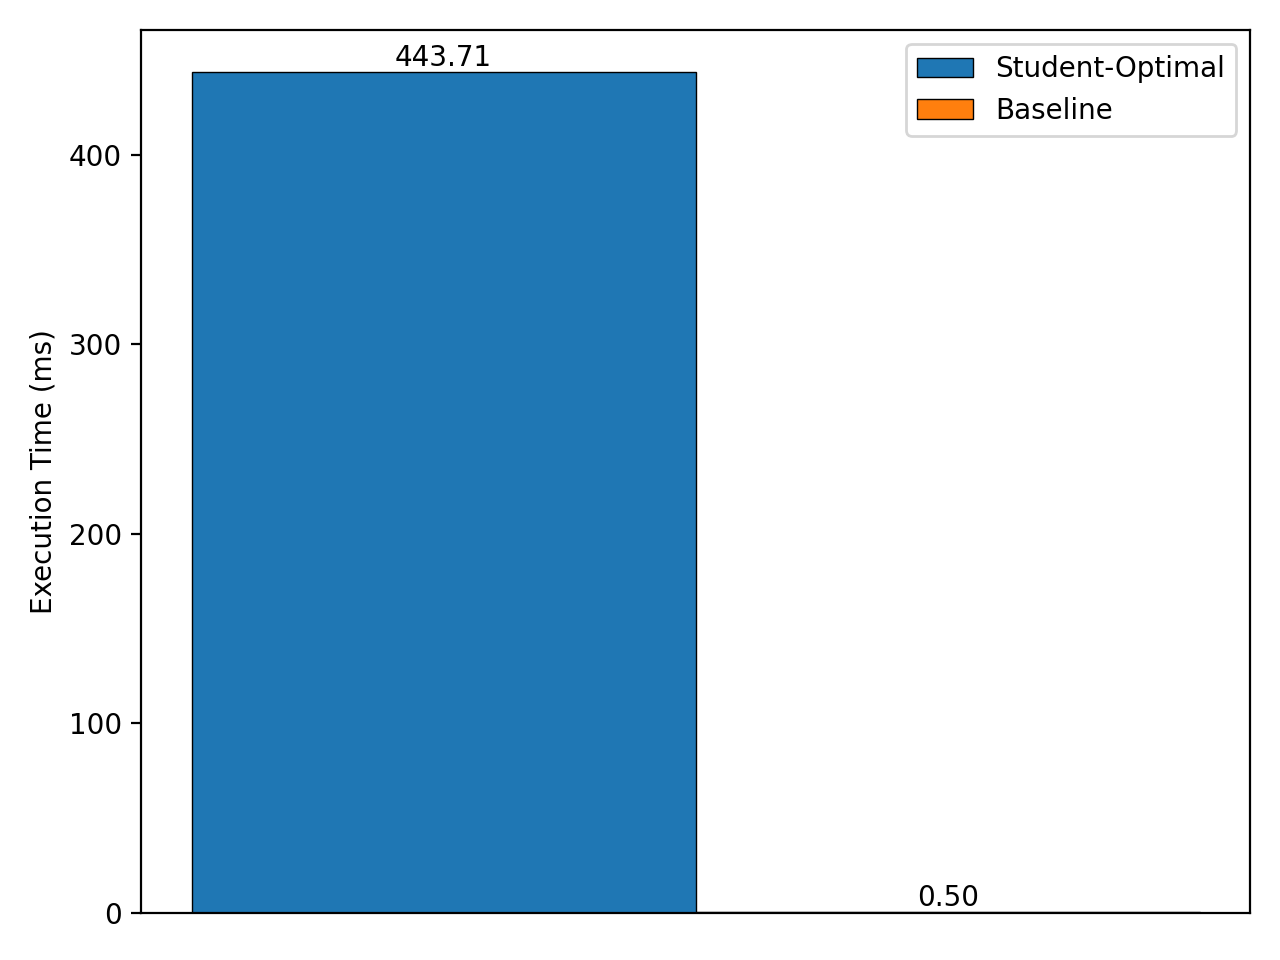
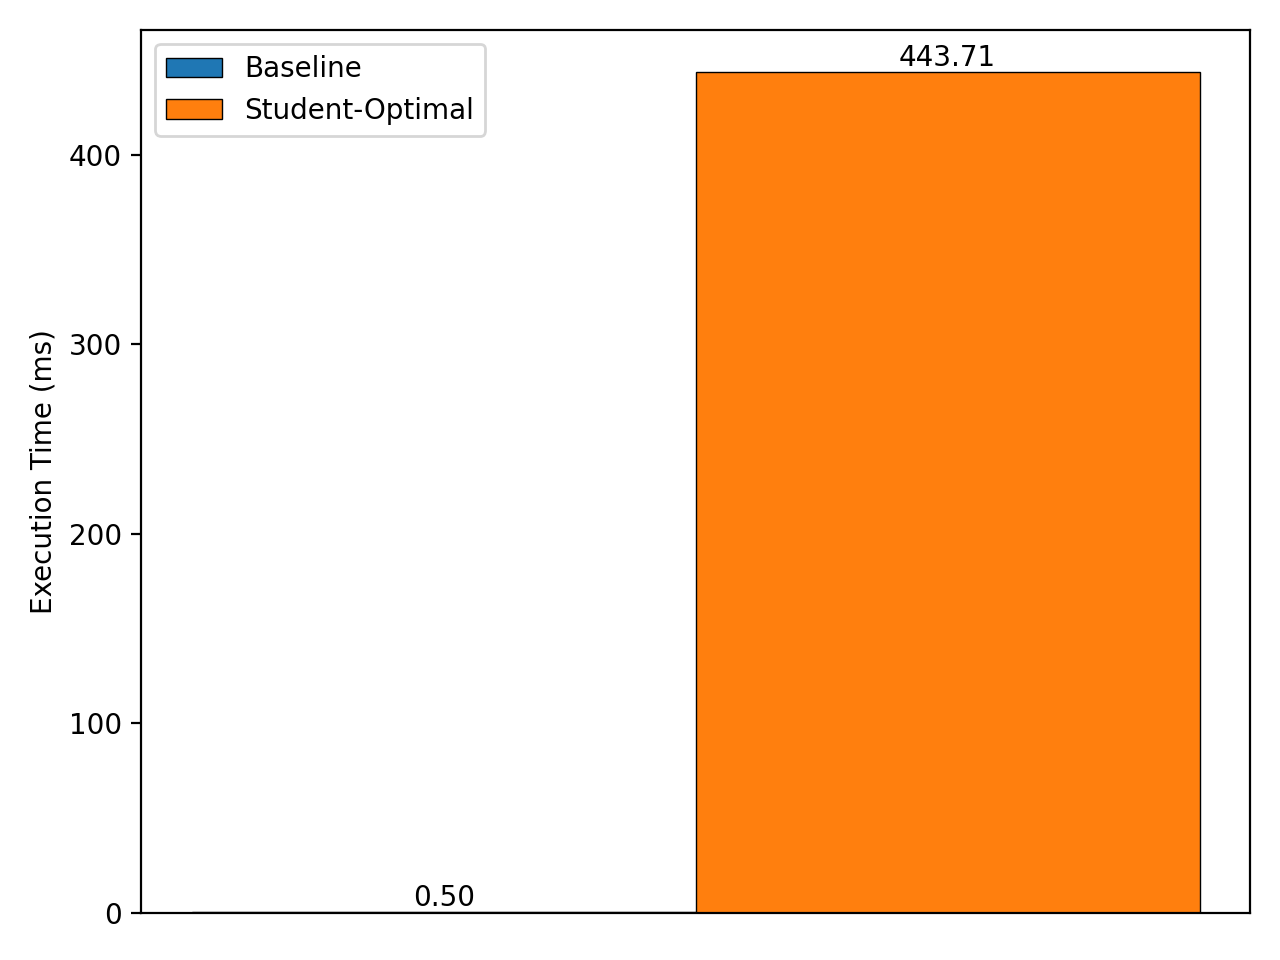
add scripts

diff --git a/scripts/plot.py b/scripts/plot.py
@@ -1,0 +1,135 @@
+#!/usr/bin/env python3
+import argparse
+import csv
+import matplotlib.pyplot as plt
+import numpy as np
+import os
+
+LABEL_TIE_BREAKING = 'Baseline'
+LABEL_STUDENT_OPTIMAL = 'Student-Optimal'
+
+def read(path):
+    if not os.path.isfile(path):
+        sys.exit('ERROR: file not exist: ' + path)
+    with open(path, 'r') as csvfile:
+        reader = csv.DictReader(csvfile)
+        return list(reader)
+
+def calculate_mean(data):
+    sum_utility = {}
+    sum_execution_time = 0.0
+    for row in data:
+        for k, v in row.items():
+            if k.startswith('pref_'):
+                if k in sum_utility:
+                    sum_utility[k] += float(v)
+                else:
+                    sum_utility[k] = float(v)
+            elif k == 'execution_time':
+                sum_execution_time += float(v)
+
+    mean_utility = {k: v / len(data) for k, v in sum_utility.items()}
+    mean_execution_time = sum_execution_time / len(data)
+    return mean_utility, mean_execution_time
+
+def plot(x, data, path, xlabel=None, ylabel=None, precision='{:.1f}'):
+    edge_color = 'black'
+    edge_width = 0.5
+    bar_width = 0.9 / len(data)
+    x_axis = np.arange(len(x))
+
+    plt.subplots()
+    for index, (label, values) in enumerate(data):
+        z = len(values)
+        rects = plt.bar(x_axis + index * bar_width,
+                values,
+                bar_width,
+                label=label,
+                edgecolor=edge_color,
+                linewidth=edge_width,
+                )
+        plt.bar_label(rects,
+                fmt=precision,
+                )
+
+    plt.xticks(x_axis + bar_width / len(data), x)
+    if xlabel == None:
+        plt.tick_params(axis='x',
+                which='both',
+                bottom=False,
+                top=False,
+                labelbottom=False,
+                )
+    else:
+        plt.xlabel(xlabel)
+    if ylabel != None:
+        plt.ylabel(ylabel)
+    plt.legend()
+    plt.tight_layout()
+    plt.savefig(path, dpi=200)
+    # plt.show()
+    plt.close()
+
+if __name__ == '__main__':
+    parser = argparse.ArgumentParser(description='Plot figures')
+    parser.add_argument('student_count', type=int, help='ath for the students')
+    parser.add_argument('school_count', type=int, help='path for the schools')
+    parser.add_argument('input_path', help='loading allocation result from the path')
+    parser.add_argument('output_path', help='saving figures to the path')
+    parser.add_argument('--console', action=argparse.BooleanOptionalAction, help='print data to the stdout without saving figures')
+    args = parser.parse_args()
+
+    output_filepath = os.path.join(args.output_path,
+            'student' + str(args.student_count) + '_school' + str(args.school_count))
+    if not os.path.exists(output_filepath):
+        os.makedirs(output_filepath)
+
+    summary_filepath = os.path.join(args.input_path,
+            'student' + str(args.student_count) + '_school' + str(args.school_count),
+            'student' + str(args.student_count) + '_school' + str(args.school_count) + '_summary.csv')
+    summary = read(summary_filepath)
+    utility_optimal, execution_time_optimal = calculate_mean([row for row in summary if row['algorithm'] == 'student_optimal'])
+    utility_tb, execution_time_tb = calculate_mean([row for row in summary if row['algorithm'] == 'tie_breaking'])
+    time_multiplier, time_unit = (1000, 'ms') if execution_time_optimal < 1.0 else (1, 's')
+    print(utility_optimal, execution_time_optimal * time_multiplier, time_unit)
+    print(utility_tb, execution_time_tb * time_multiplier, time_unit)
+
+    if args.console == False or args.console == None:
+        figure_utility_filepath = os.path.join(output_filepath,
+                'student' + str(args.student_count) + '_school' + str(args.school_count) + '_utility.png')
+        z = len(utility_tb)
+        plot(['Rank ' + str(pref + 1) for pref in range(z)],
+                [
+                    (
+                        LABEL_TIE_BREAKING,
+                        [utility_tb['pref_' + str(pref)] for pref in range(z)],
+                        ),
+                    (
+                        LABEL_STUDENT_OPTIMAL,
+                        [utility_optimal['pref_' + str(pref)] for pref in range(z)],
+                        ),
+                    ],
+                figure_utility_filepath,
+                xlabel='Preference Rank of Allocated School',
+                ylabel='Number of Students',
+                precision='{:.1f}',
+                )
+        figure_execution_time_filepath = os.path.join(output_filepath,
+                'student' + str(args.student_count) + '_school' + str(args.school_count) + '_execution_time.png')
+        plot(['Execution Time'],
+                [
+                    (
+                        LABEL_TIE_BREAKING,
+                        [execution_time_tb * time_multiplier],
+                        ),
+                    (
+                        LABEL_STUDENT_OPTIMAL,
+                        [execution_time_optimal * time_multiplier],
+                        ),
+                    ],
+                figure_execution_time_filepath,
+                xlabel=None,
+                ylabel='Execution Time (' + time_unit + ')',
+                precision='{:.2f}',
+                )
+

diff --git a/scripts/generate.py b/scripts/generate.py
@@ -1,0 +1,66 @@
+#!/usr/bin/env python3
+import argparse
+import csv
+import os
+import sys
+import random
+
+def generate_students(student_count, school_count):
+    students = []
+    school_ids = list(range(school_count))
+    for student_id in range(student_count):
+        random.shuffle(school_ids)
+        row = {'pref_' + str(pref): school_id for pref, school_id in enumerate(school_ids)}
+        row['student_id'] = student_id
+        students += [row]
+    return students
+
+def generate_schools(student_count, school_count):
+    schools = []
+    for school_id in range(school_count):
+        capacity = student_count // school_count
+        row = {
+                'school_id': school_id,
+                'capacity': capacity,
+                }
+        schools += [row]
+    return schools
+
+def save(path, fieldnames, data):
+    with open(path, 'w') as csvfile:
+        writer = csv.DictWriter(csvfile, fieldnames)
+        writer.writeheader()
+        writer.writerows(data)
+
+if __name__ == '__main__':
+    parser = argparse.ArgumentParser(description='Generate dataset')
+    parser.add_argument('student_count', type=int, help='the number of students')
+    parser.add_argument('school_count', type=int, help='the number of schools. NOTE: student_count should be devided by school_count')
+    parser.add_argument('path', help='saving generated dataset to the path')
+    parser.add_argument('seed', nargs='+', type=int, help='random seed for shuffle student\'s preference list')
+    args = parser.parse_args()
+
+    dataset_filepath = os.path.join(args.path,
+            'student' + str(args.student_count) + '_school' + str(args.school_count))
+    if not os.path.exists(dataset_filepath):
+        os.makedirs(dataset_filepath)
+
+    # students
+    if args.seed != None:
+        for seed in args.seed:
+            random.seed(seed)
+            students = generate_students(args.student_count, args.school_count)
+            students_filename = os.path.join(dataset_filepath,
+                    'student' + str(args.student_count) + '_school' + str(args.school_count) + '_students_seed' + str(seed) + '.csv')
+            save(students_filename,
+                    ['student_id'] + ['pref_' + str(pref) for pref in range(args.school_count)],
+                    students)
+
+    # schools
+    schools = generate_schools(args.student_count, args.school_count)
+    schools_filepath = os.path.join(dataset_filepath,
+            'student' + str(args.student_count) + '_school' + str(args.school_count) + '_schools.csv')
+    save(schools_filepath,
+            ['school_id', 'capacity'],
+            schools)
+

diff --git a/README.md b/README.md
@@ -25,4 +25,13 @@
 - `student{n}_school{m}_utility.png`: figure of qualitative utility with n students and m schools
 - `student{n}_school{m}_execution_time.png`: figure of execution time with n students and m schools
 
+## Generate Input Data
+```
+python3 scripts/generate.py 100 5 input 0 1 2 3 4 5 6 7 8 9 0
+```
+
+## Plot Output Data
+```
+python3 scripts/plot.py 100 5 output figure
+```
 
